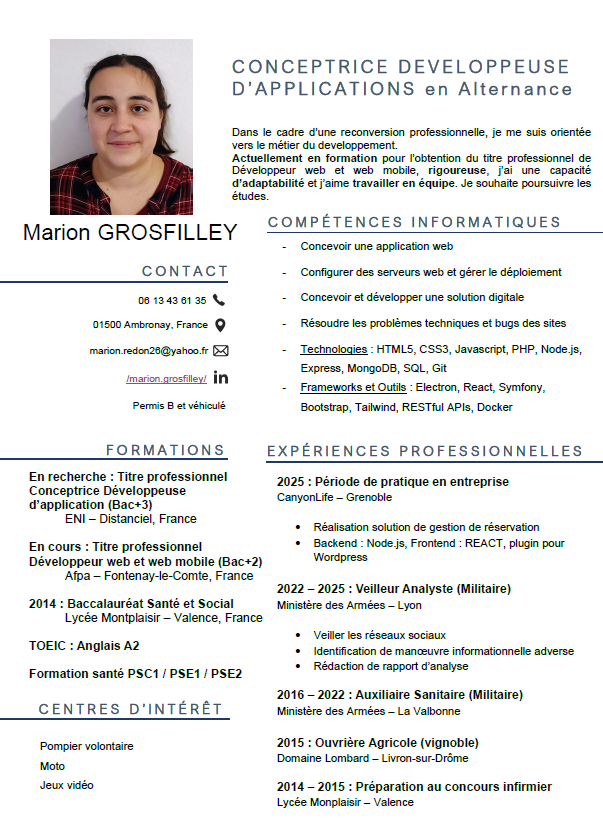
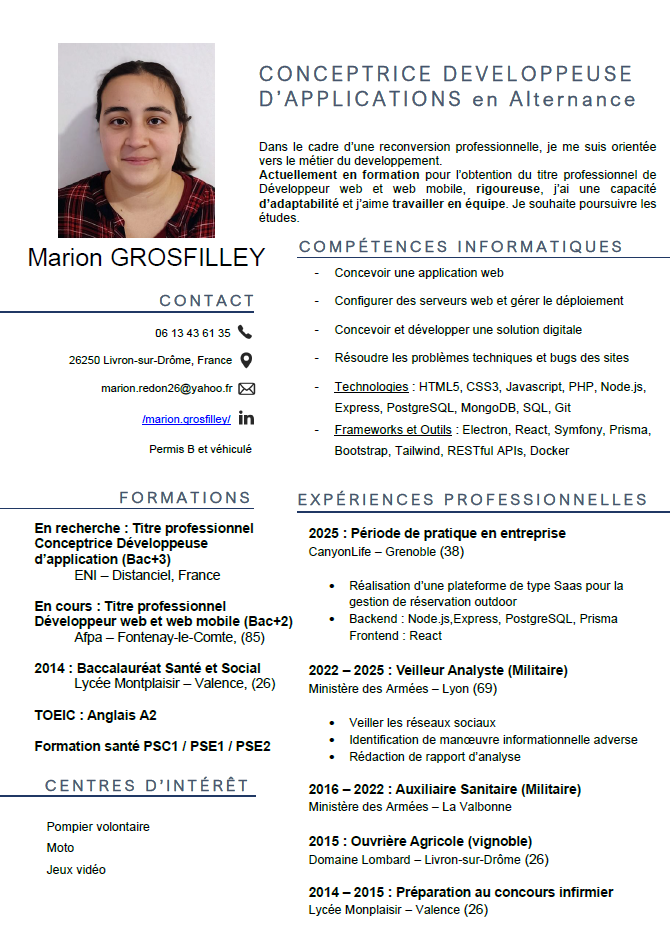
maj 4/12

Changed region(s): [[0.0, 0.0605, 1.0, 0.9988], [0.3881, 0.0605, 0.9552, 0.1211]]

diff --git a/src/components/ProjetGallery.jsx b/src/components/ProjetGallery.jsx
@@ -5,11 +5,13 @@ import capture3 from "../assets/projets/CRUD_artist_Node.js/CRUD_artist.png"
 import capture4 from "../assets/projets/transport_toulouse/transport_toulouse.png"
 import capture5 from "../assets/projets/pizza/Pizza_REACT.png"
 import capture6 from "../assets/projets/devisFactures/devisFactures.png"
+import capture7 from "../assets/projets/resaoutdoor/calendar.png"
 import video1 from "../assets/projets/pdev/demo_pdev.mp4"
 import video2 from "../assets/projets/resaSalles/demo_resa_salles.mp4"
 import video3 from "../assets/projets/CRUD_artist_Node.js/demo_CRUD_artist.mp4"
 import video4 from "../assets/projets/transport_toulouse/demo_toulouse.mp4"
 import video5 from "../assets/projets/devisFactures/devisfactures.mp4"
+import video6 from "../assets/projets/resaoutdoor/resaoutdoor.mp4"
 
 function ProjectCard({ title, image, video, techs, description, openModal, downloadLink}) {
 
@@ -84,6 +86,14 @@ export default function ProjectGallery() {
             ref={scrollRef}
             className="flex gap-6 overflow-x-auto pb-4 scroll-smooth"
             >
+                <ProjectCard
+                    title="Application type Saas réservation activité outdoor"
+                    image={capture7}
+                    video={video6}
+                    techs={["PERN", "PostgresSQL", "Express", "React", "Node.js", "Prisma"]}
+                    description="Plateforme de gestion et de réservation outdoor de type Saas"
+                    openModal={openModal}
+                />
                 <ProjectCard
                     title="Logiciel de gestion devis/factures pour un auto-entrepreneur"
                     image={capture6}

diff --git a/src/App.jsx b/src/App.jsx
@@ -9,7 +9,6 @@ import Footer from './components/Footer'
 import './App.css'
 
 function App() {
-  const [count, setCount] = useState(0)
 
   return (
     <>
@@ -22,7 +21,7 @@ function App() {
       <Portefolio className="relative z-10"/>
       <Space className="relative z-10"/>
       <Cv className="relative z-10"/>
-      <Space className="relative z-10"/>.
+      <Space className="relative z-10"/>
       <Footer className="relative z-10"/>
     </>
   )
